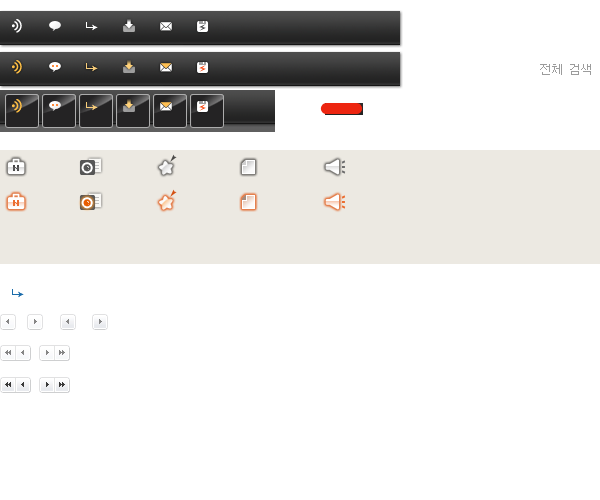
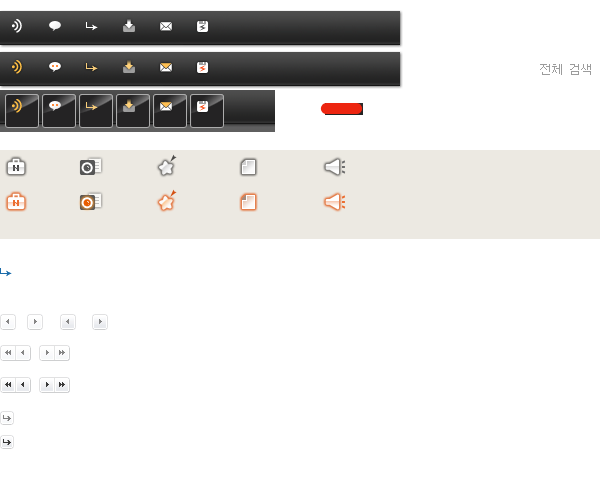
space.html,imags,css

Changed region(s): [[0.0, 0.48, 1.0, 0.57], [0.0, 0.87, 0.03, 0.9], [0.0, 0.81, 0.03, 0.84]]

diff --git a/WebContent/html/space.html b/WebContent/html/space.html
@@ -1,0 +1,297 @@
+<!DOCTYPE html PUBLIC "-//W3C//DTD XHTML 1.0 Transitional//EN" "http://www.w3.org/TR/xhtml1/DTD/xhtml1-transitional.dtd">
+<html xmlns="http://www.w3.org/1999/xhtml">
+<head>
+<meta http-equiv="Content-Type" content="text/html; charset=utf-8" />
+<title>Untitled Document</title>
+</head>
+<link href="../css/default.css" type="text/css" rel="stylesheet" /></link>
+<link href="../css/layout.css" type="text/css" rel="stylesheet" /></link>
+<link href="../css/detail.css" type="text/css" rel="stylesheet" /></link>
+<link href="../css/chat.css" type="text/css" rel="stylesheet" /></link>
+
+<body>
+
+<!-- 채팅 -->
+<div class="chat_section">
+<!-- 상단 -->
+	<div class="top_group">
+    
+    	<div class="top_area">Hyunseong Shin님 외 3명</div>  
+        
+        <!-- 상단우측 아이콘-->
+    	<div class="txt_btn">
+            <div class="po_right">
+            <a href="">
+            <img class="btn_x">
+            </a>
+            </div>
+            
+            <div class="po_right">
+            <a href="">
+            <img class="btn_admin">
+            </a>
+            </div>
+            
+            <div class="po_right">
+            <a href="">
+            <img class="btn_min">
+            </a>
+            </div>
+        </div>
+    <!-- 상단 우측 아이콘//-->
+    
+    </div>
+<!-- 상단 //-->
+    
+    
+    
+    
+<!-- Body -->
+<div class="chat_body">
+
+<div>
+    <ul>
+    <li>
+
+        <div class="noti_pic">
+        <img align="bottom" src="../images/chat_pic_29.jpg">
+        </div>
+        <div class="noti_in">
+            <div>가을이 다 지나가부렀네요~~--;가을이 다 지나가부렀네요~~--;가을이 다 지나가부렀네요~~--;가을이 다 지나가부렀네요~~--;가을이 다 지나가부렀네요~~--;가을이 다 지나가부렀네요~~--;가을이 다 지나가부렀네요~~--;가을이 다 지나가부렀네요~~--;가을이 다 지나가부렀네요~~--;<span class="t_date"> 2011.10.13</span></div>
+        </div>
+
+    </li>
+    
+    <li>
+        <div class="noti_pic">
+        <img align="bottom" src="../images/pic_size_m29.jpg">
+        </div>
+        <div class="noti_in">
+            <div>그래요~~~그래요~~~그래요~~~그래요~~~그래요~~~그래요~~~<span class="t_date"> 2011.10.13</span></div>
+        </div>
+    </li>
+    
+    <li>
+        <div class="noti_pic">
+        <img align="bottom" src="../images/pic_size_m29.jpg">
+        </div>
+        <div class="noti_in">
+            <div>그래요~~~그래요~~~그래요~~~그래요~~~그래요~~~그래요~~~<span class="t_date"> 2011.10.13</span></div>
+        </div>
+    </li>
+    <li class="end">
+        <div class="noti_pic">
+        <img align="bottom" src="../images/pic_size_m29.jpg">
+        </div>
+        <div class="noti_in">
+            <div>그래요~~~그래요~~~그래요~~~그래요~~~그래요~~~그래요~~~<span class="t_date"> 2011.10.13</span></div>
+        </div>
+    </li>
+    </ul>
+</div>
+    
+<div class="chat_input_area">
+   <textarea class="chat_textarea" value="" rows="2" cols="">채팅 내용을 입력합니다!!!</textarea>
+</div>
+    
+        
+    
+</div>
+<!-- Body //-->
+            
+            
+        </div>
+<!-- 채팅 //-->
+
+
+
+<div id="content">
+
+<!--탭-->
+<div class="tab">
+    <ul class="clear">
+    <li>
+    <span class="intab">
+    <a href="#">11.20 <span class="t_sunday">일</span></a>
+    </span>
+    </li>
+    <li class="current">
+    <span class="intab">
+    <a href="#">11.21 월</a>
+    </span>
+    </li>
+    <li>
+    <span class="intab">
+    <a href="#">11.22 화</a>
+    </span>
+    </li>
+    <li>
+    <span class="intab">
+    <a href="#">11.23 수</a>
+    </span>
+    </li>
+    <li>
+    <span class="intab">
+    <a href="#">11.24 목</a>
+    </span>
+    </li>
+    <li>
+    <span class="intab">
+    <a href="#">11.25 금</a>
+    </span>
+    </li>
+    <li>
+    <span class="intab">
+    <a href="#">11.26 토</a>
+    </span>
+    </li>
+    </ul>
+</div>       
+<!--탭//-->
+    
+<!-- 컨텐츠 레이아웃-->
+<div class="section_portlet">
+    <div class="portlet_t">
+      <div class="portlet_tl"></div>
+    </div>
+    <div class="portlet_l" style="display: block;">
+    <ul class="portlet_r" style="display: block;">
+    
+    <!-- 컨텐츠 -->
+<div class="contents_space">
+
+<!-- 근무시간 전 -->
+<div class="space_section">
+<div class="title">근무시간 전</div>
+    <ul>
+    <li class="solid_line_s">
+        <div class="det_title">
+            <div class="noti_pic_m"><img src="../images/pic_size_48.jpg"></div>
+            <div class="noti_in_m">
+                <span class="t_name">Minashin</span><span class="arr">▶</span><span class="ico_division_s">마케팅/디자인팀</span>
+                <div>회의록 내용 중 빠진 부분이나 수정할 사항이 있으시면 참석자 누구든 수정해주시기 바랍니다^^ (메모는 타이틀 성격이 아니기 때문에 볼드가 안들어갑니다.)</div>
+                <div><span class="t_date"> 2011.10.13</span> <a href=""><span class="repl_write">댓글달기</span></a></div>
+            </div>
+        </div>
+    </li>
+   
+    <li>
+        <div class="det_title">
+            <div class="noti_pic_m"><img src="../images/pic_size_48_4.jpg"></div>
+            <div class="noti_in_m">
+                <span class="t_name">Minashin</span><span class="arr">▶</span><span class="ico_division_s">마케팅/디자인팀</span>
+                <div><img class="bu_file" /> <a href="">BT-case.ppt [678kb]</a> <strong>하반기 마케팅 기획 및 B2B 마케팅 자료입니다</strong></div>
+                <div>관련 설명이 들어갑니다... 없으면 안나오구요~^^ 내용이 많으면 줄바꿈됩니다...줄바꿔줄바꿔~~줄바꿔줄바꿔~~줄바꿔줄바꿔~~줄바꿔줄바꿔~~줄바꿔줄바꿔~~줄바꿔줄바꿔~~줄바꿔줄바꿔~~줄바꿔줄바꿔~~줄바꿔줄바꿔~~줄바꿔줄바꿔~~줄바꿔줄바꿔~~줄바꿔줄바꿔~~줄바꿔줄바꿔~~줄바꿔줄바꿔~~줄바꿔줄바꿔~~줄바꿔줄바꿔~~</div>
+                <div><span class="t_date"> 2011.10.13</span> <a href=""><span class="repl_write">댓글달기</span></a></div>
+            </div>
+        </div>
+    </li>
+    </ul>
+</div>
+    <!-- 근무시간 전//-->
+    
+    <!-- 근무시간 -->
+<div class="space_section margin_t10">
+<div class="title">근무시간</div>
+    <ul>
+    <li class="solid_line_s">
+        <div class="det_title">
+            <div class="noti_pic_m"><img src="../images/pic_size_48.jpg"></div>
+            <div class="noti_in_m">
+                <span class="t_name">Minashin</span><span class="arr">▶</span><span class="ico_division_s">마케팅/디자인팀</span>
+                <div>메모입니다...메모입니다..</div>
+                <div><span class="t_date"> 2011.10.13</span> <a href=""><span class="repl_write">댓글달기</span></a></div>
+            </div>
+        </div>
+    </li>
+   
+     <li>
+        <div class="det_title">
+            <div class="noti_pic_m"><img src="../images/pic_size_48.jpg"></div>
+            <div class="noti_in_m">
+                <span class="t_name">Minashin</span><span class="arr">▶</span><span class="ico_division_s">마케팅/디자인팀</span>
+                <div>
+                <strong>워크샵 사진입니다...즐감하세요~ (타이틀은 볼드가 들어가는 것으로 통일입니다~)</strong>
+                <div>이미지 파일에 대한 설명 내용이 있다면 이 곳에 들어갑니다.. 즐거웠던 웍샵사진~~ 어질어질했던 메스꺼움의 기억이 되살아나요~~--;</div>
+                	<div class="imag_area"><img src="../images/up_image.jpg" /></div>
+                    <div><span class="t_date"> 2011.10.13</span> <a href=""><span class="repl_write">댓글달기</span></a></div>
+                    
+   <!-- 댓글 -->
+   <div class="replay_point posit_replay"></div>
+   <div class="replay_section">
+   
+        <div class="list_replay">
+            <ul>
+            <li><img class="repl_tinfo"><a href=""><strong>7</strong>개의 댓글 모두 보기</a></li>
+            <li>
+                    <div class="noti_pic"><img src="../images/pic_size_29.jpg" alt="신민아" align="bottom"/></div>
+                    <div class="noti_in">
+                        <span class="t_name">Minashin</span><span class="t_date"> 2011.10.13</span>
+                        <div>와우~ 멋져요~</div>
+                </div>
+            </li>
+            <li>
+                    <div class="noti_pic"><img src="../images/pic_size_29.jpg" alt="신민아" align="bottom"/></div>
+                    <div class="noti_in">
+                        <span class="t_name">Minashin</span><span class="t_date"> 2011.10.13</span>
+                        <div>재미있었겠네요~</div>
+                    </div>
+            </li>
+            <li>
+                <div class="det_title">
+                    <div class="noti_pic"><img src="../images/pic_size_29.jpg" alt="신민아" align="bottom"/></div>
+                    <div class="noti_in">
+                        <span class="t_name">Minashin</span><span class="t_date"> 2011.10.13</span>
+                        <div>가을이 다 지나가부렀네요~~--;</div>
+                    </div>
+                </div>
+            </li>
+            </ul>
+        </div>
+        
+        <div class="replay_input">
+        <textarea class="up_textarea" rows="1" cols="" name="txtaEventContent">댓글을 입력하세요!</textarea>
+        </div>
+    
+    </div>
+    <!-- 댓글 //-->
+                    
+                </div>
+            </div>
+        </div>
+    </li>
+    </ul>
+</div>
+    <!-- 근무시간//-->
+    
+    <!-- 근무시간 후 -->
+<div class="space_section margin_t10">
+<div class="title_off">근무시간 후</div>
+    <ul>
+    <li class="solid_line_s">
+         <div class="det_title">
+            <div class="noti_pic_m"><img src="../images/pic_size_48.jpg"></div>
+            <div class="noti_in_m">
+                <span class="t_name">Minashin</span><span class="arr">▶</span><span class="ico_division_s">마케팅/디자인팀</span><span class="t_date"> 2011.10.13</span>
+                <div><img class="bu_file" /> <a href="">BT-case.ppt [678kb]</a> <strong>하반기 마케팅 기획 및 B2B 마케팅 자료입니다</strong></div>
+                <div>관련 설명이 들어갑니다... 없으면 안나오구요~^^ 내용이 많으면 줄바꿈됩니다...줄바꿔줄바꿔~~줄바꿔줄바꿔~~줄바꿔줄바꿔~~줄바꿔줄바꿔~~줄바꿔줄바꿔~~줄바꿔줄바꿔~~줄바꿔줄바꿔~~줄바꿔줄바꿔~~줄바꿔줄바꿔~~줄바꿔줄바꿔~~줄바꿔줄바꿔~~줄바꿔줄바꿔~~줄바꿔줄바꿔~~줄바꿔줄바꿔~~줄바꿔줄바꿔~~줄바꿔줄바꿔~~</div>
+                <div><span class="t_date"> 2011.10.13</span> <a href=""><span class="repl_write">댓글달기</span></a></div>
+            </div>
+        </div>
+    </li>
+    </ul>
+</div>
+    <!-- 근무시간 후//-->
+    
+</div>
+<!-- 컨텐츠 //-->
+   
+</ul>
+</div>
+<div class="portlet_b" style="display: block;"></div>
+</div> 
+<!-- 컨텐츠 레이아웃//-->
+
+</div>
+</body>
+</html>

diff --git a/WebContent/css/detail.css b/WebContent/css/detail.css
@@ -20,7 +20,7 @@
 /* 본문 컨텐츠 */
 .define_space {padding: 0 25px; overflow: hidden;} /* 상하 여백이 필요 없을떄*/
 .contents_space {padding: 0 25px 10px;}
-.contents_space .det_title {padding:3px 0;} /* 타이틀 */
+.contents_space .det_title {padding:3px 0; overflow:hidden;} /* 타이틀 */
 .contents_space .area {padding:10px;}
 .contents_space .border {border:1px solid #c7c7c7; background-color:#FFF; padding:10px;}
 
@@ -28,16 +28,25 @@
 /* Replay Info */
 .info_repl {vertical-align:bottom; position:absolute;}
 
+/* 공간 영역 */
+.space_section {padding-top: 8px;}
+.space_section .title {background: url("../images/body_icon.png") no-repeat scroll 0 -418px transparent; font-weight:bold; padding:5px 0 0 20px;}
+.space_section .title_off {background: url("../images/body_icon.png") no-repeat scroll -389px -418px transparent; font-weight:bold; padding:5px 0 0 20px;}
+.space_section .imag_area { margin:4px 0;}
+
 
 /* 본문 댓글 관련 */
 .replay_point {background: url("../images/replay_point.gif") no-repeat left top; width:11px; height:7px; margin-top: 5px;}
-.replay_section {background-color:#eef2f6; padding:10px; width:600px; margin-left:40px;}
+.replay_section {background-color:#eef2f6; padding:10px; width:600px;}
 .replay {margin:10px 15px 0;} /* 상세페이지에 댓글,업무,메모 입력 영역*/
 .list_replay {margin:0;} /* 댓글 목록 */
 .replay_input {margin-top:10px;} /* 댓글 입력 영역 */
-.list_replay li, .replay li {border-bottom: 1px dashed #9c9c9c; vertical-align: middle; padding:5px 0;}
+.list_replay li, .replay li, .space_section li {border-bottom: 1px dashed #9c9c9c; vertical-align: middle; padding:2px 0;}
 .list_replay .end, .replay .end {border-bottom: none; vertical-align: middle;}
-.repl_tinfo {background: url("../images/header_nico.png") no-repeat -8px -286px; padding:0 0 0 20px;}
+.repl_tinfo {background: url("../images/header_nico.png") no-repeat 4px -267px; padding:0 0 0 20px;}
+.repl_write {background: url("../images/header_nico.png") no-repeat 0 -411px; padding: 2px 0 1px 17px; font-size: 11px; color: #23579E;  margin-left: 5px;}
+a .repl_write:hover {background: url("../images/header_nico.png") no-repeat 0 -435px; text-decoration: underline;}
+
 
 
 /* 목록보기 부분 타이틀 */
@@ -98,7 +107,7 @@ a .proc_btn_prev:hover {background: url("../images/proc_bg.png") repeat-y scroll
 .proc_btn_next {background: url("../images/proc_bg.png") repeat-y scroll -129px 0 transparent; width:11px; height:19px; margin-top: 14px; position: absolute; right:10px;}
 a .proc_btn_next:hover {background: url("../images/proc_bg.png") repeat-y scroll -129px -28px; transparent;}
 
-.proc_arr_next {background: url("../images/proc_bg.png") repeat-y scroll -86px -82px transparent; width:23px; height:7px; margin-top:19px;}
+.proc_arr_next {background: url("../images/proc_bg.png") repeat-y scroll -86px -82px transparent; width:23px; height:10px; margin-top:19px;}
 .proc_start_compl {background: url("../images/proc_bg.png") repeat-y scroll -13px -13px transparent; 
 					height: 29px; padding-top: 10px; text-align: center; vertical-align: middle; width: 39px;}
 .proc_start_compl .current { font-weight:bold;}
@@ -148,7 +157,7 @@ a .proc_btn_next:hover {background: url("../images/proc_bg.png") repeat-y scroll
 			
 /* 프로세스 포인트 위치 */
 .posit_default {left: 58px; position: relative; top: 1px; margin-top:5px; z-index: 20;}
-.posit_replay {left: 70px; position: relative; top: 1px; z-index: 20;}
+.posit_replay {left: 40px; position: relative; top: 1px; z-index: 20;}
 
 
 /* 필터 */
@@ -232,4 +241,4 @@ display: inline-block; height: 16px; width: 16px; position:relative; right:5px;}
 .bu_arr_b {background: url("../images/body_icon.png") no-repeat scroll -286px 0 transparent; height:4px; display:inline-block;}
 .bu_stat {background: url("../images/body_icon.png") no-repeat scroll 0 -251px transparent; height:21px; display:inline-block; padding: 0 0 0 24px;}
 .bu_n_stat {background: url("../images/body_icon.png") no-repeat scroll -432px -250px transparent; height:21px; display:inline-block; padding: 0 0 0 25px;}
-.bu_file {background: url("../images/body_icon.png") no-repeat scroll -163px -365px transparent; height:17px; width:16px; display:inline-block;}
+.bu_file {background: url("../images/body_icon.png") no-repeat scroll -163px -364px transparent; height:20px; width:16px; display:inline-block;}

diff --git a/WebContent/css/chat.css b/WebContent/css/chat.css
@@ -1,0 +1,16 @@
+
+
+.chat_section {border:1px solid #232323; background-color:#454645; width:273px; position:absolute; top:33px; left:106px; z-index:39;}
+.chat_section li {border-bottom:1px dashed #9C9C9C; margin:5px 10px 0; color:#454545; vertical-align: middle; padding: 2px 0; overflow:hidden;}	
+.chat_section li.end {border-bottom:none;}
+.chat_section .top_group {background: url("../images/bg_chat.jpg") repeat-x 0 0 transparent; font-weight:bold; color:#FFF; padding:5px 5px 0;}
+.chat_section .top_area { position:absolute;}
+.chat_section .btn_min {background: url("../images/chat_img.png") no-repeat scroll 0 0 transparent; display:inline-block; height:17px; width:10px;}
+.chat_section .btn_admin {background: url("../images/chat_img.png") no-repeat scroll -17px 0 transparent; display:inline-block; height:17px; width:10px;}
+.chat_section .btn_x {background: url("../images/chat_img.png") no-repeat scroll -35px 0 transparent; display:inline-block; height:17px; width:10px;}
+
+.chat_section .chat_body {background-color:#FFF; margin: 0 2px 2px;}
+.chat_input_area { border-top:1px solid #9C9C9C; height:50px;}
+.chat_textarea {vertical-align: top; width: 99%; border:none;}
+	
+.info_list {padding:0 0 2px 18px; line-height:16px; }
